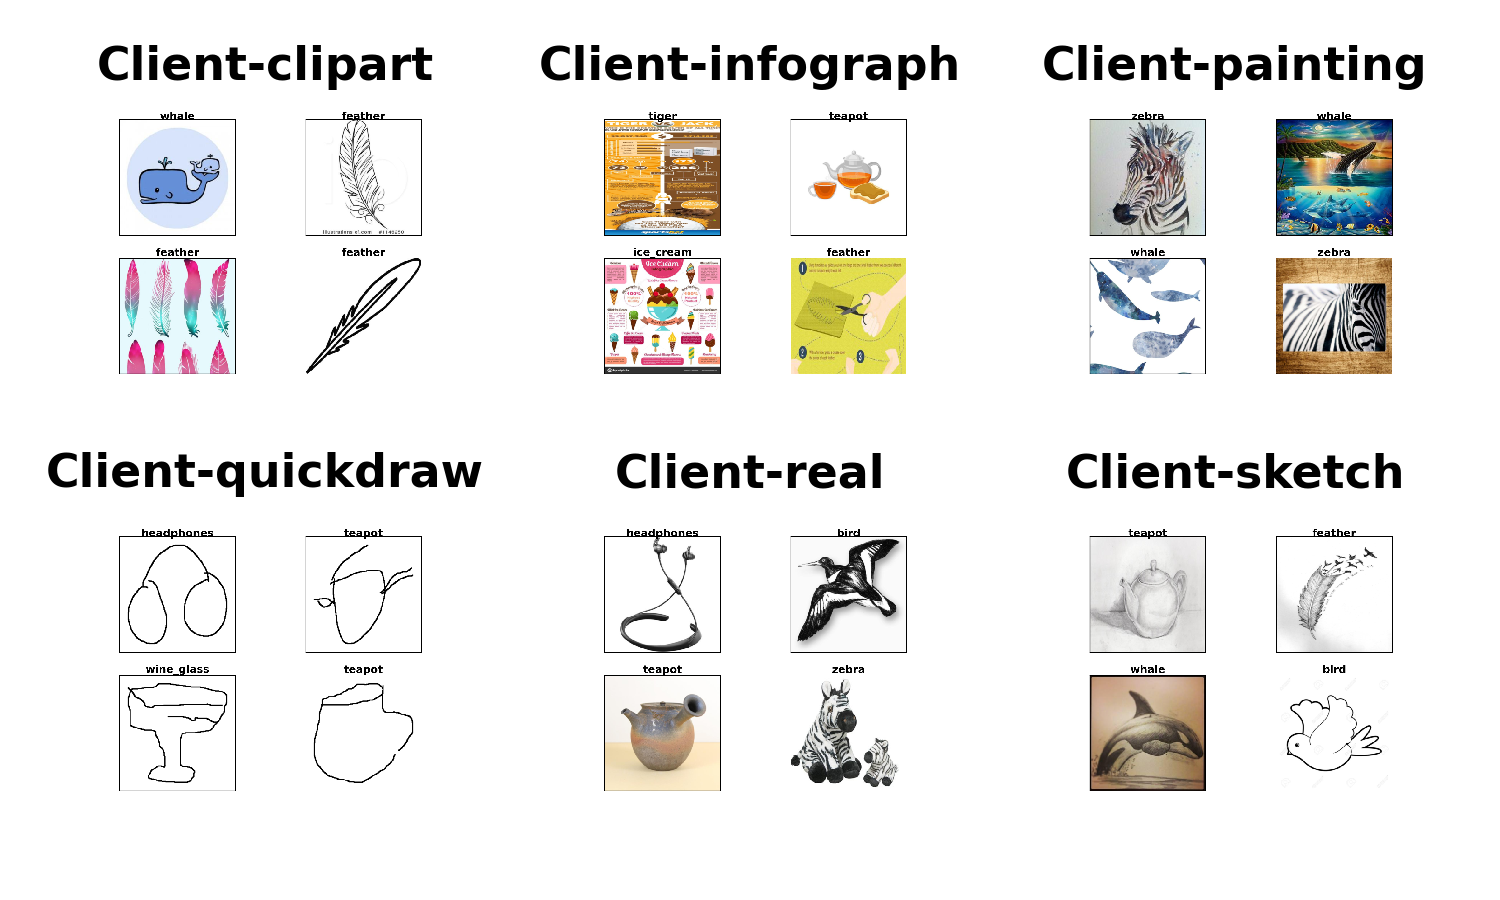
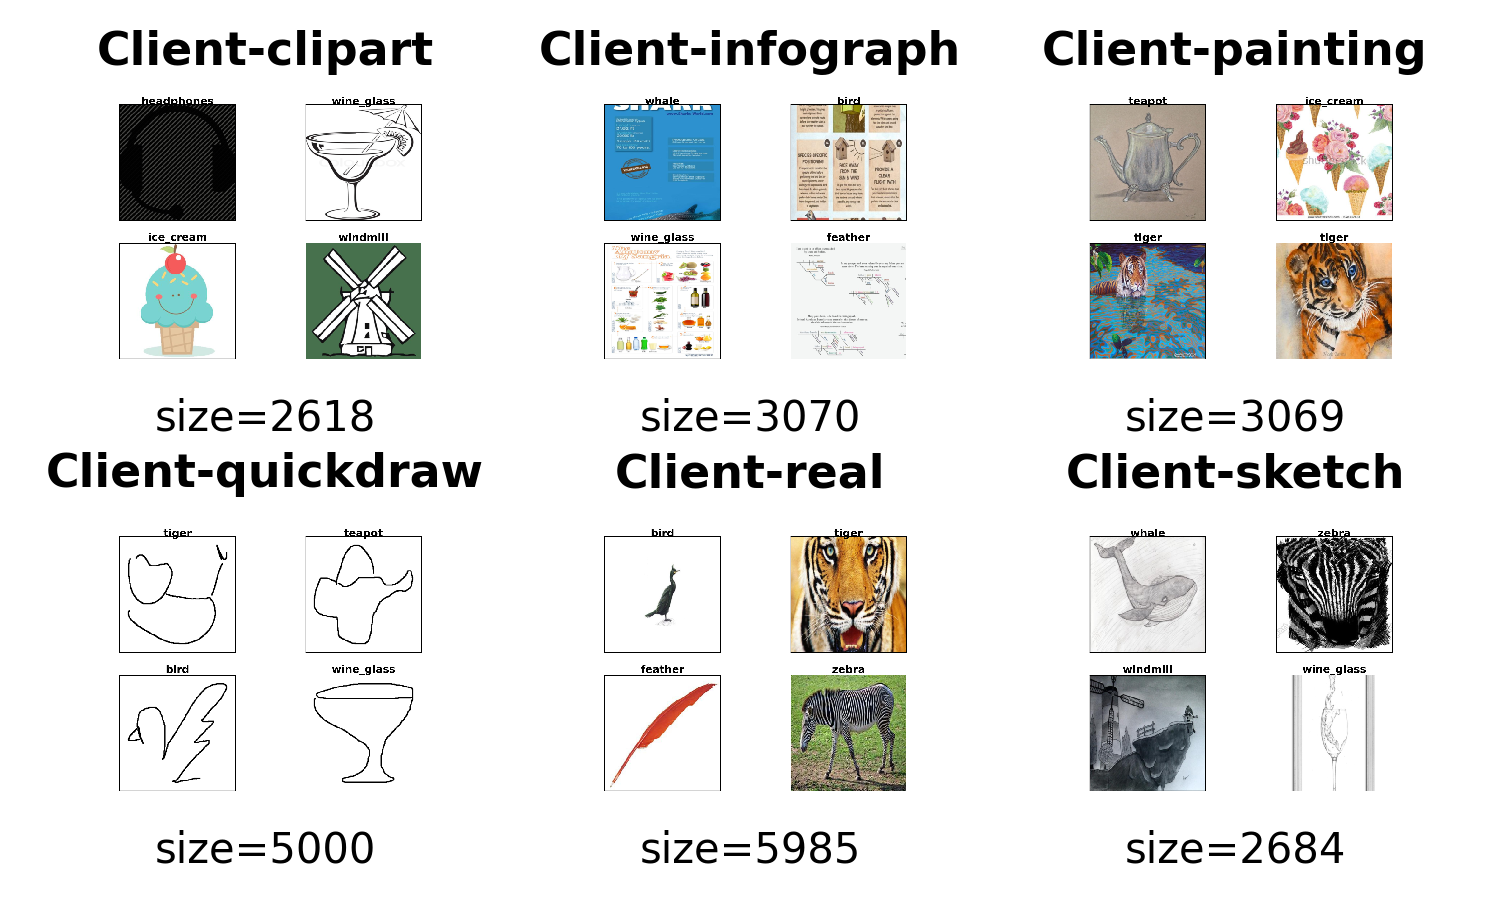
add size info

diff --git a/task/prostateMRI_c6/config.py b/task/prostateMRI_c6/config.py
@@ -20,7 +20,6 @@ import torch.nn as nn
 import torch.nn.functional as F
 
 root = os.path.dirname(os.path.abspath(__file__))
-
 def convert_from_nii_to_png(img):
     high = np.quantile(img, 0.99)
     low = np.min(img)
@@ -351,6 +350,7 @@ if __name__ == '__main__':
     for k, (ax, img) in enumerate(zip(axs, imgs)):
         ax.imshow(img, interpolation='nearest')
         ax.set_title(f"Client-{domains[k]}", loc='center', pad=0, fontsize=11, fontweight='bold')
+        ax.text(0.5, -0.005, f'size={len(train_data[k])}', ha='center', va='top', transform=ax.transAxes)
         ax.axis('off')  # 不显示坐标轴
     # 显示拼接后的图形
     axs[0].set_xticks([])

diff --git a/task/digits_c5/config.py b/task/digits_c5/config.py
@@ -407,6 +407,7 @@ if __name__ == '__main__':
     for k, (ax, img) in enumerate(zip(axs, imgs)):
         ax.imshow(img, interpolation='nearest')
         ax.set_title(f"Client-{domains[k]}", loc='center', pad=0, fontsize=11, fontweight='bold')
+        ax.text(0.5, -0.005, f'size={len(train_data[k])}', ha='center', va='top', transform=ax.transAxes)
         ax.axis('off')  # 不显示坐标轴
     # 显示拼接后的图形
     axs[0].set_xticks([])

diff --git a/task/fundus_c4/config.py b/task/fundus_c4/config.py
@@ -329,6 +329,7 @@ if __name__ == '__main__':
     for k, (ax, img) in enumerate(zip(axs, imgs)):
         ax.imshow(img, interpolation='nearest')
         ax.set_title(f"Client-{domains[k]}", loc='center', pad=0, fontsize=11, fontweight='bold')
+        ax.text(0.5, -0.01, f'size={len(train_data[k])}', ha='center', va='top', transform=ax.transAxes)
         ax.axis('off')  # 不显示坐标轴
     # 显示拼接后的图形
     axs[0].set_xticks([])

diff --git a/task/domainnet_c6/config.py b/task/domainnet_c6/config.py
@@ -247,6 +247,7 @@ if __name__=='__main__':
     for k, (ax, img) in enumerate(zip(axs, imgs)):
         ax.imshow(img, interpolation='nearest')
         ax.set_title(f"Client-{domains[k]}", loc='center', pad=0, fontsize=11, fontweight='bold')
+        ax.text(0.5, -0.005, f'size={len(train_data[k])}', ha='center', va='top', transform=ax.transAxes)
         ax.axis('off')  # 不显示坐标轴
     # 显示拼接后的图形
     axs[0].set_xticks([])
